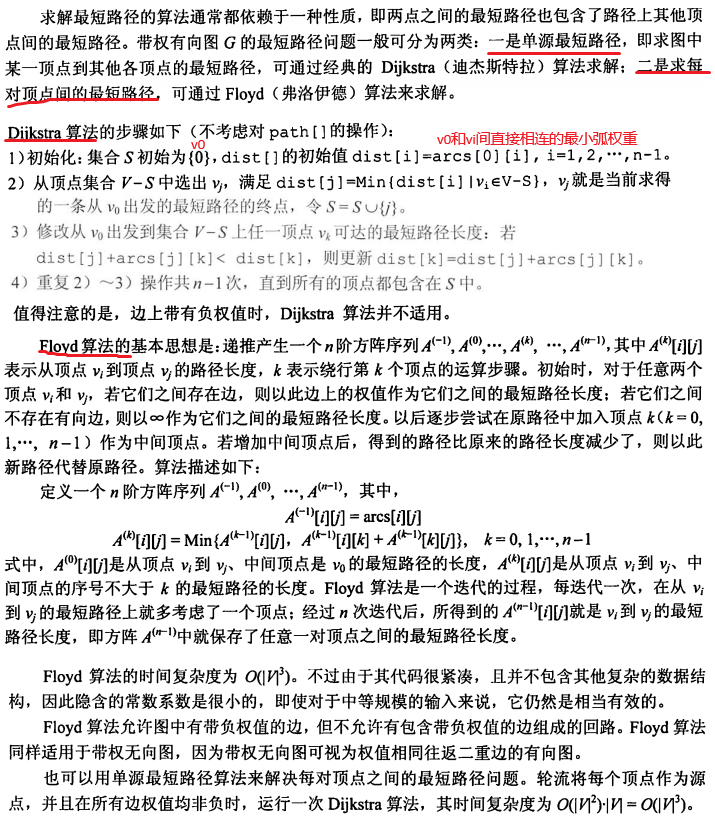
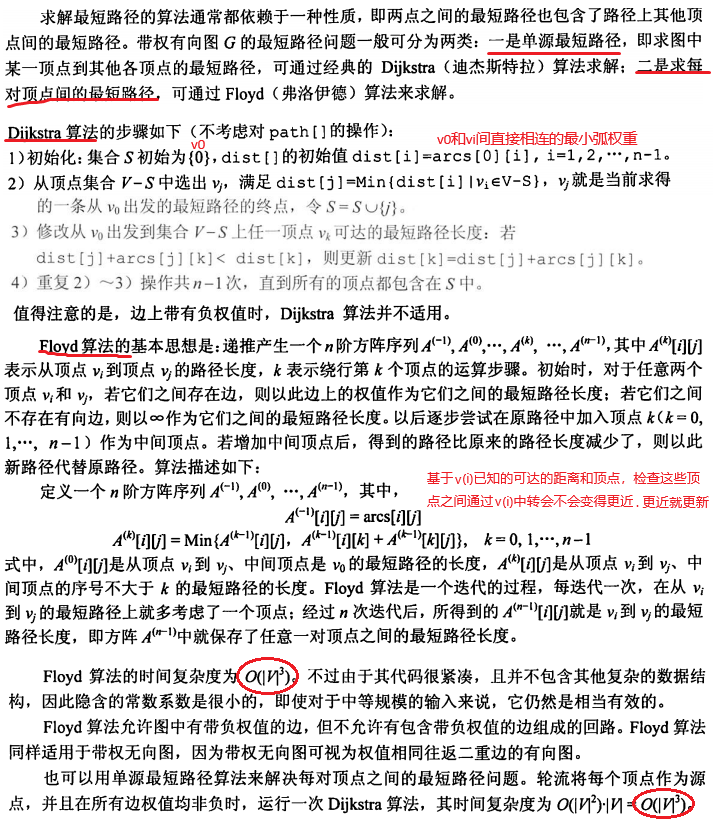
x

Changed region(s): [[0.5846, 0.5751, 0.9846, 0.6356], [0.3385, 0.7869, 0.4308, 0.8475], [0.8923, 0.9383, 0.9846, 0.9988]]

diff --git a/计算机专业课-数据结构.md b/计算机专业课-数据结构.md
@@ -60,6 +60,41 @@ KMP模式匹配算法
 
 ![image-20240909163427659](img/image-20240909163427659.png)
 
+```shell
+Input:
+    n: 节点数
+    dist: n x n 的邻接矩阵 (dist[i][j] 表示 i 到 j 的初始距离，若无直接路径则设置为 ∞，自己到自己为 0)
+
+Output:
+    dist: n x n 的最短路径矩阵 (dist[i][j] 是 i 到 j 的最短距离)
+
+Algorithm:
+1. 初始化：
+   - 矩阵 dist[i][j] 的初始值为图的边权重，如果没有直接边，则为 ∞。
+   - dist[i][i] = 0, 因为自己到自己的距离为 0。
+
+2. 对每一个中间节点 k，从 1 到 n：
+   - 对每一个起点 i，从 1 到 n：
+       - 对每一个终点 j，从 1 到 n：
+           - 更新 dist[i][j]：
+             dist[i][j] = min(dist[i][j], dist[i][k] + dist[k][j])
+#上面很暴力很好维护，但可以优化：对于当前节点k，它目前不能到达的点i和点j 之间的距离肯定不会被更新，所以不是需要检查每种(i, j)组合的
+2. 对每一个中间节点 k，从 1 到 n：
+   - 对每一个起点 i，从 1 到 n：
+       - 如果 dist[i][k] 是 ∞，跳过这轮循环，因为 i 无法到达 k。
+       - 对每一个终点 j，从 1 到 n：
+           - 如果 dist[k][j] 是 ∞，跳过这轮循环，因为 k 无法到达 j。
+           - 更新 dist[i][j]：
+             dist[i][j] = min(dist[i][j], dist[i][k] + dist[k][j])
+
+3. 返回最终的 dist 矩阵。
+
+```
+
+
+
+### 6.5 拓扑排序和关键路径
+
 ![image-20240921195220820](img/image-20240921195220820.png)
 
 ![image-20241016105718341](img/image-20241016105718341.png)
